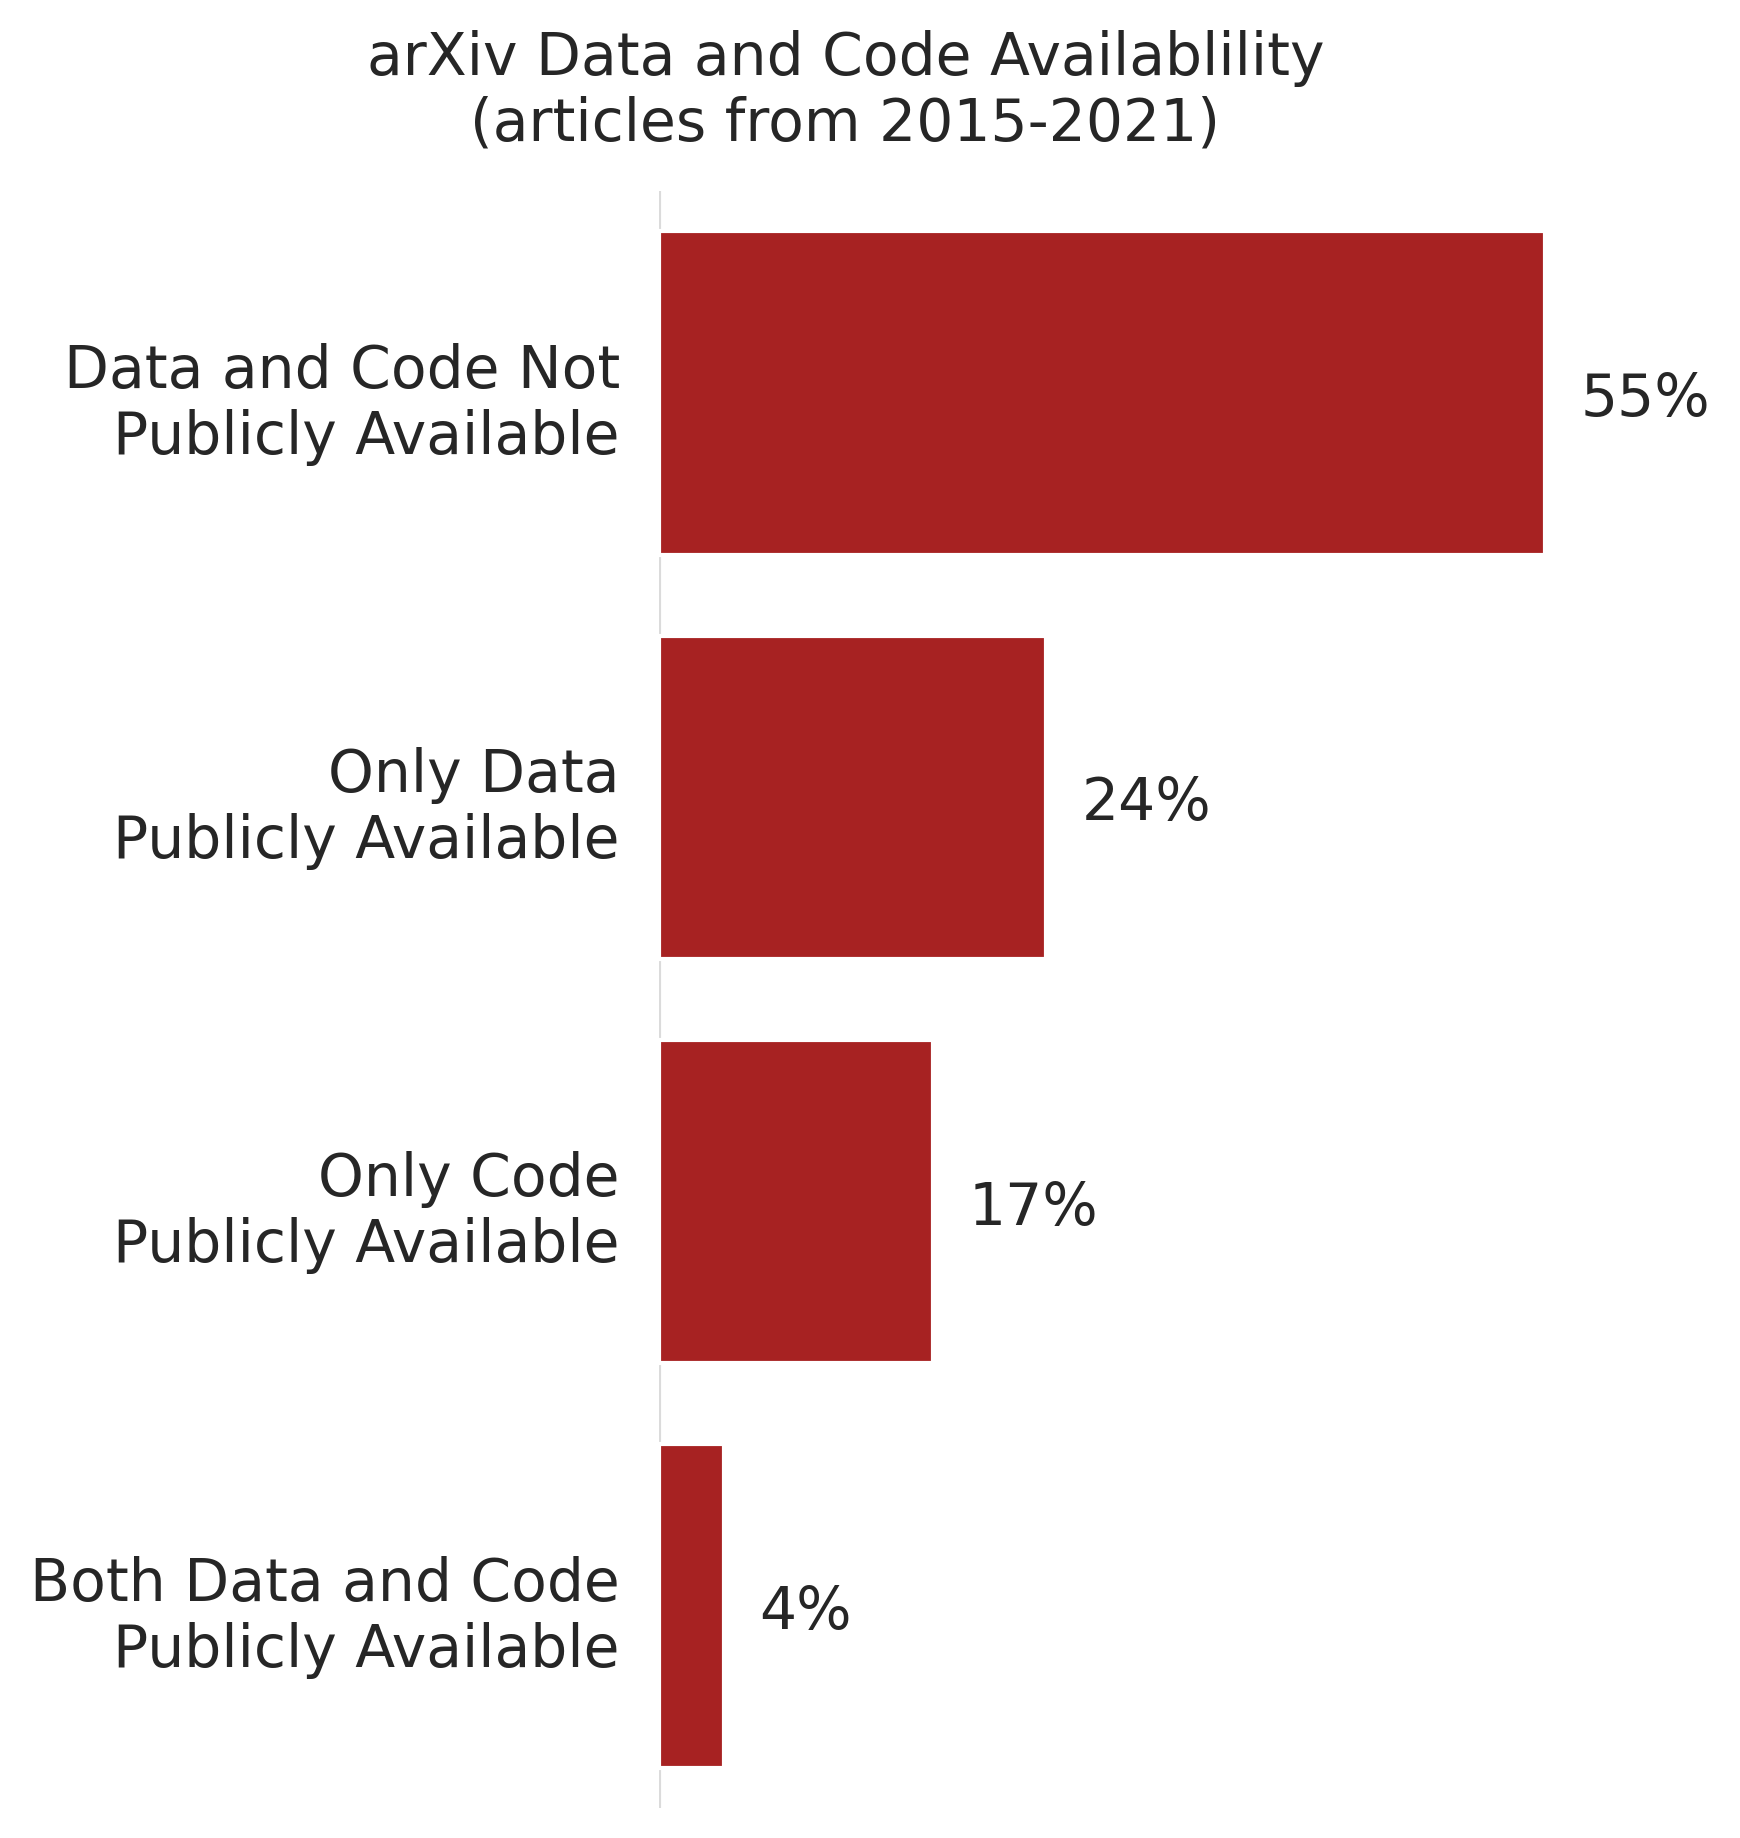
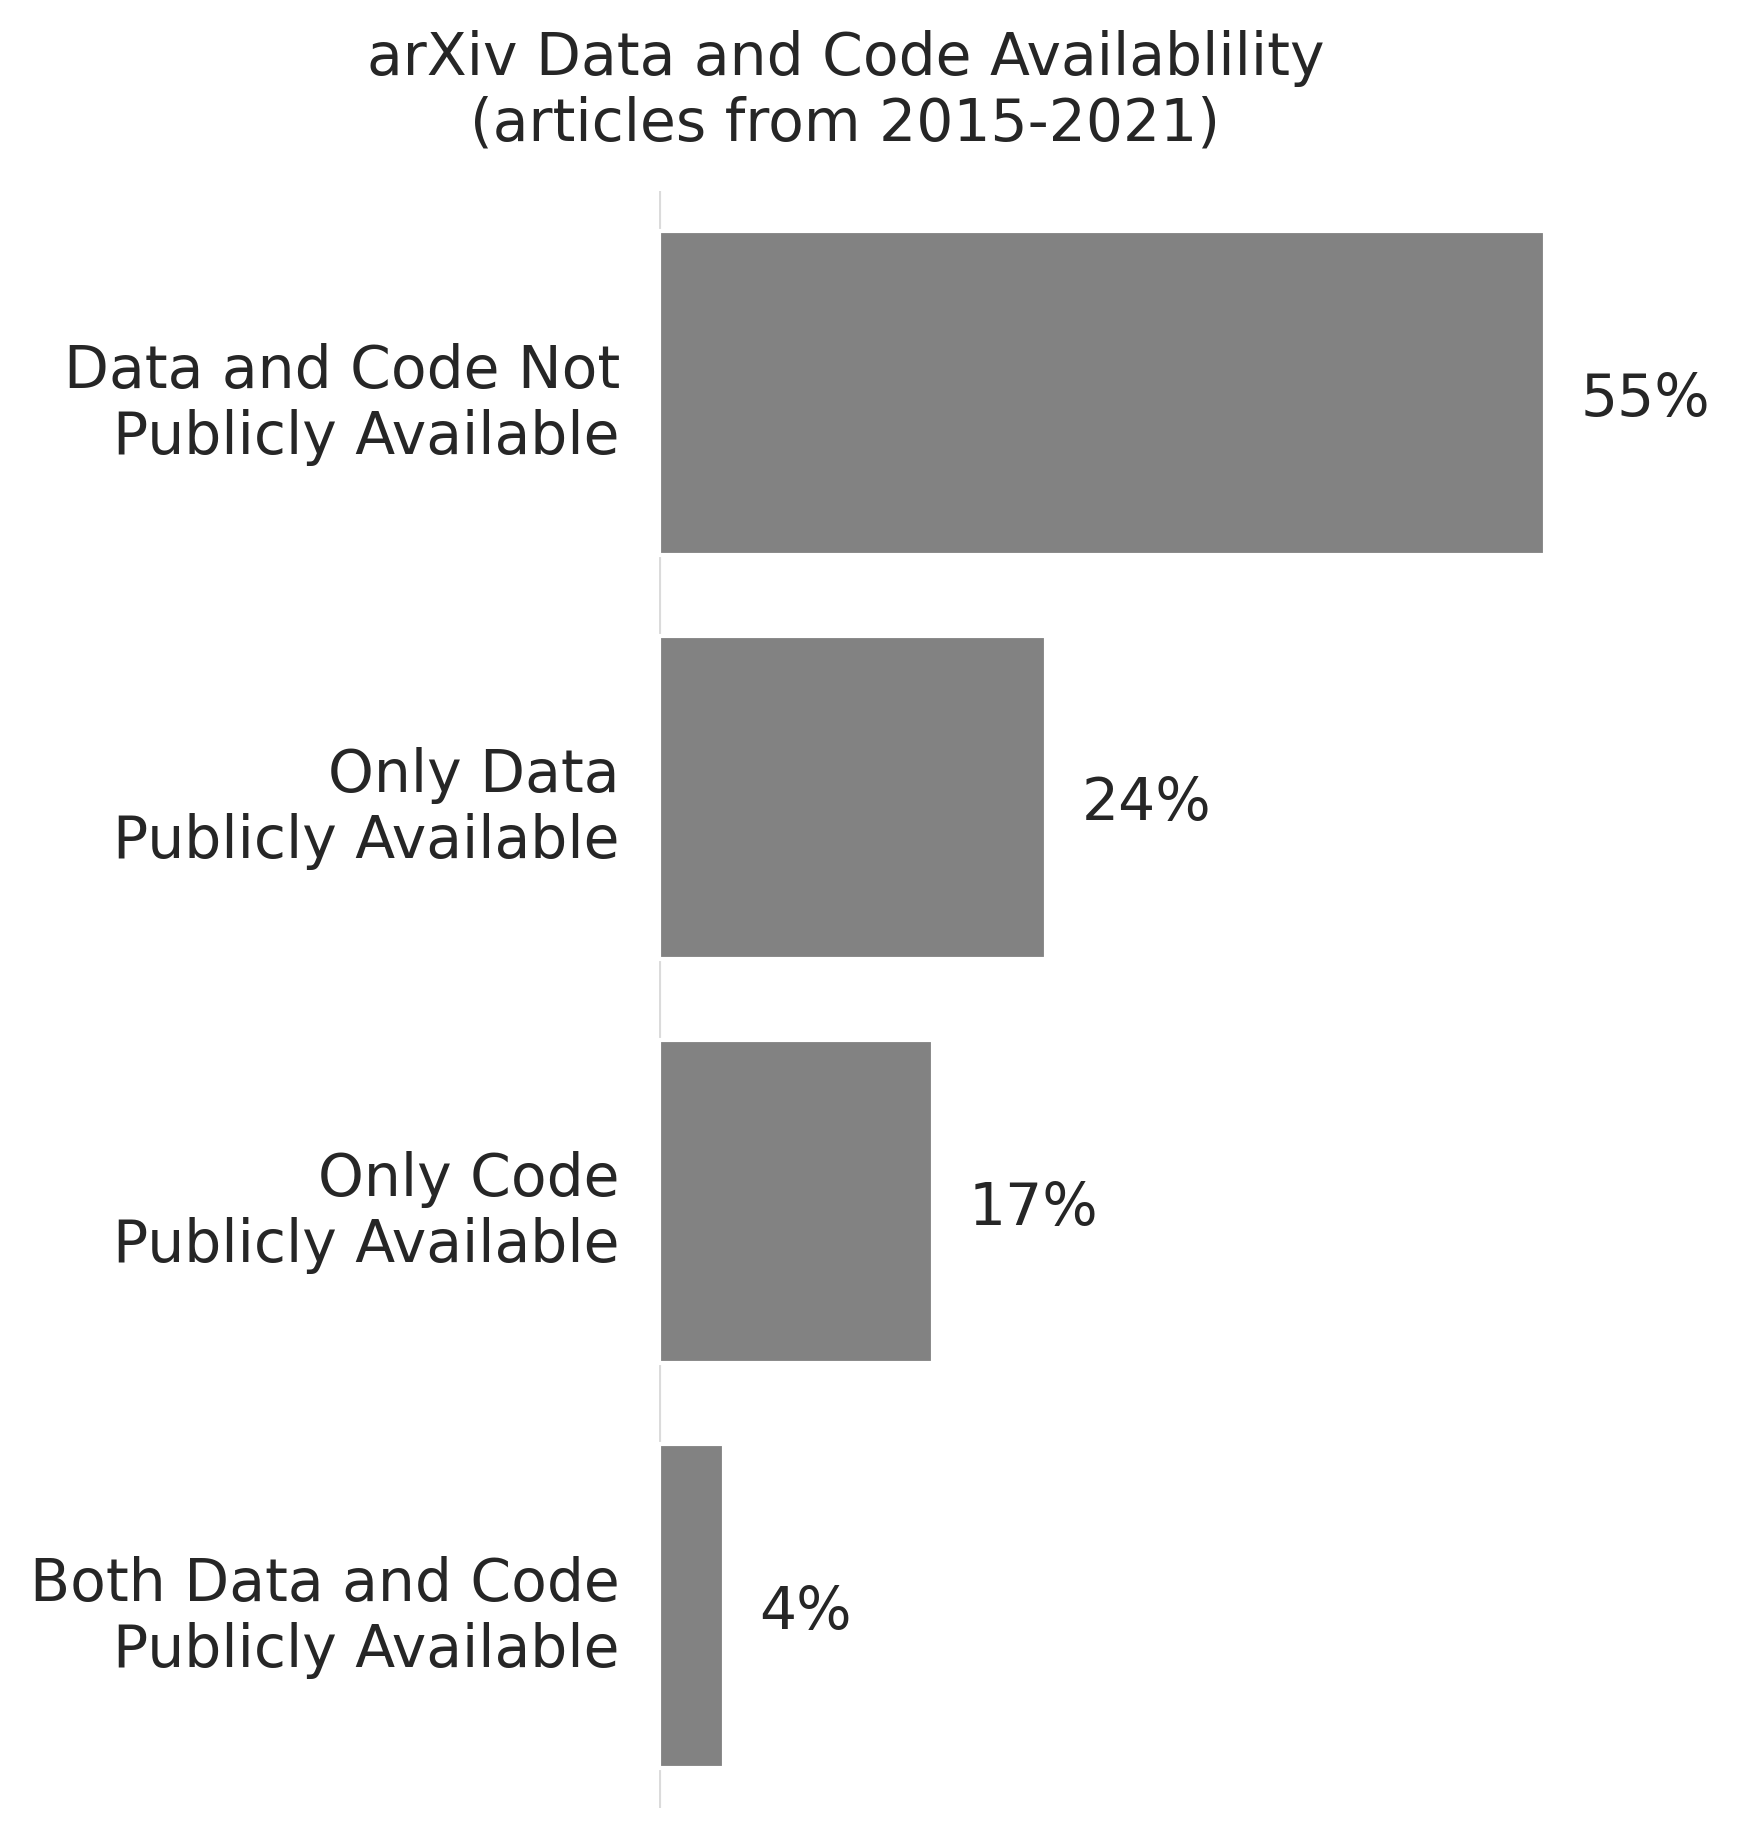
Add bar_color as option for ind. charts

diff --git a/src/visualization/visualize.py b/src/visualization/visualize.py
@@ -8,7 +8,6 @@ import logging
 
 def summarize_final_label_file(file_path, sample_size, publisher_name):
 
-    # get file_name from file_path
     file_name = file_path.stem
 
     if file_name.endswith(".csv"):
@@ -187,6 +186,7 @@ def plot_individual_publisher(
     title="Data and Code Availablility for Articles\nat the PHM Conf. (from 2015-2021)",
     path_save_dir=None,
     save_name="article_pcts_phm_conf",
+    bar_color=None,
     dpi=300,
     save_plot=True,
 ):
@@ -202,11 +202,14 @@ def plot_individual_publisher(
     pal = sns.color_palette("Greys_r")
     font_size = 14
 
+    if bar_color is None:
+        bar_color = pal[2]
+
     ax = sns.barplot(
         x="percentage",
         y="label_name",
         data=df,
-        color="#bd0c0c",
+        color=bar_color,
     )
 
     for p in ax.patches:
@@ -318,6 +321,7 @@ def main():
         title="PHM Conf. Data and Code Availablility\n(articles from 2015-2021)",
         path_save_dir=path_save_dir,
         save_name="article_pcts_phm_conf",
+        bar_color="#bd0c0c", # red-ish color
         dpi=300,
         save_plot=True,
     )
